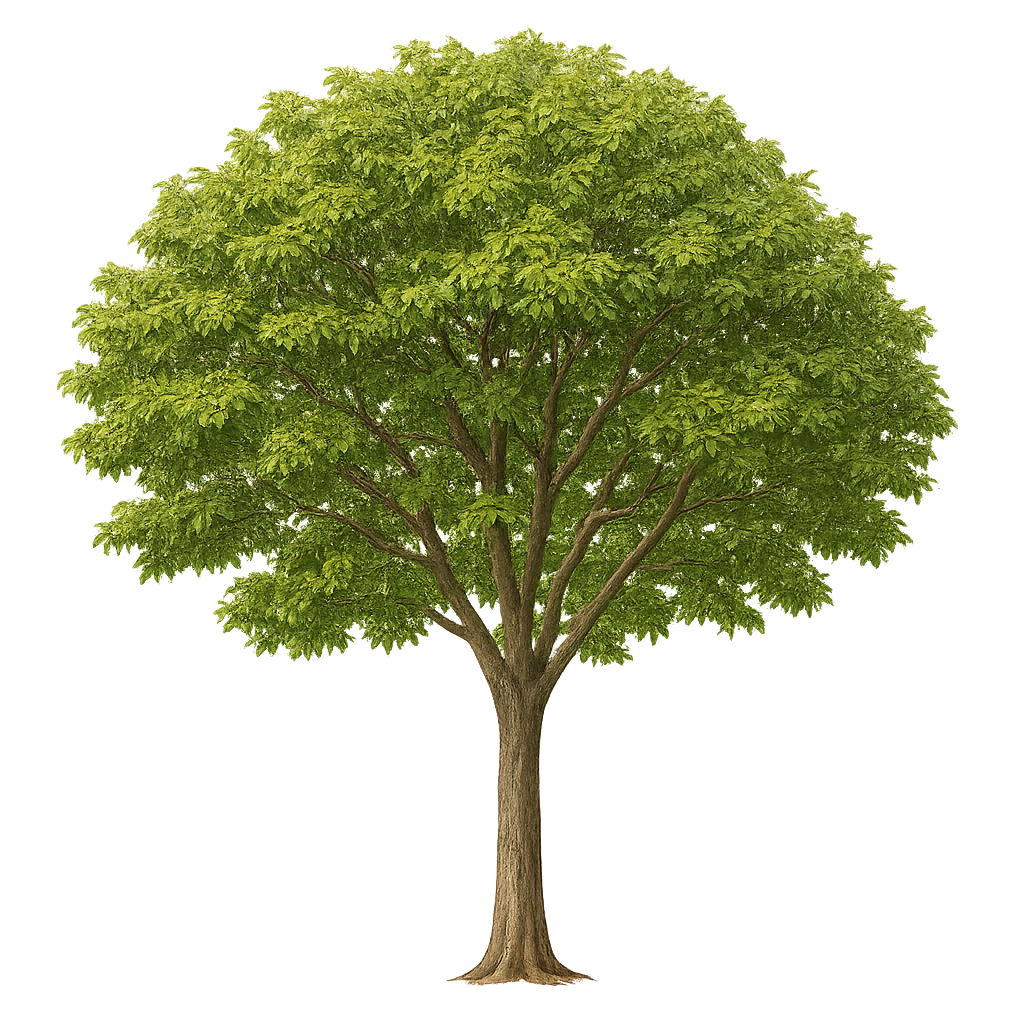
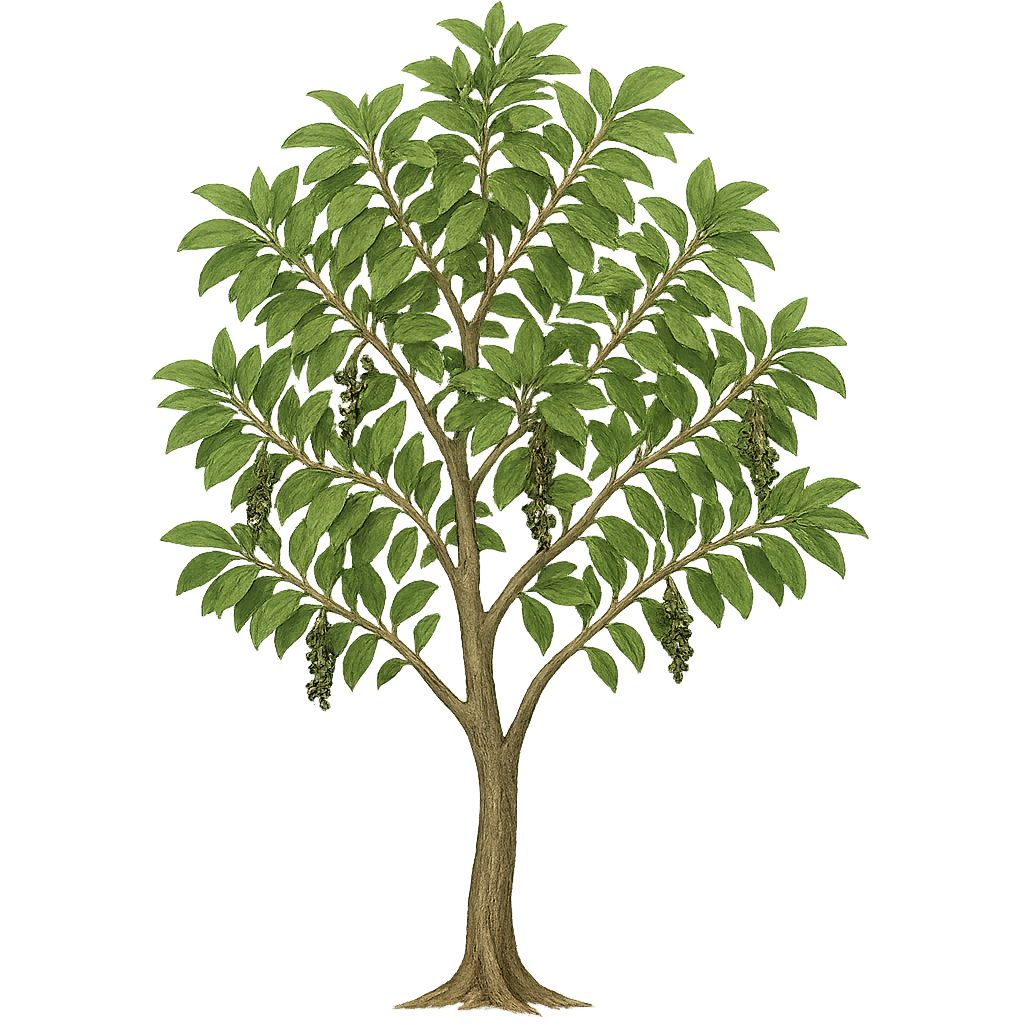
debug RAG service image generation

diff --git a/frontend/src/components/pages/canvas/AIHelper.jsx b/frontend/src/components/pages/canvas/AIHelper.jsx
@@ -11,7 +11,6 @@ const AIHelper = (props) => {
   const [plantSearch, setPlantSearch] = useState("");
   const [isHovered, setIsHovered] = useState(false);
   const { handleSearchPlantsWithImages, searchResults, loadingFlags } = useRag();
-  const [plantSearchResults, setPlantSearchResults] = useState([]);
 
   const handleImageUpload = (e, type) => {
     const files = Array.from(e.target.files || []);
@@ -41,8 +40,6 @@ const AIHelper = (props) => {
         query: plantSearch, 
         max_results: 5 
       });
-      console.log('Search results:', searchResults);
-      setPlantSearchResults(searchResults);
     } catch (error) {
       console.error('Plant search failed:', error);
       alert('Plant search failed: ' + error.message);
@@ -588,7 +585,7 @@ const AIHelper = (props) => {
               )}
 
               {/* Plant Results Grid */}
-              {!loadingFlags.isSearching && plantSearchResults.length > 0 && (
+              {!loadingFlags.isSearching && searchResults.length > 0 && (
                 <div style={{ 
                   display: 'grid', 
                   gridTemplateColumns: 'repeat(auto-fill, minmax(140px, 1fr))', 
@@ -601,7 +598,7 @@ const AIHelper = (props) => {
                   border: '1px solid #e5e7eb',
                   marginBottom: '12px'
                 }}>
-                  {plantSearchResults.map((plant, index) => {
+                  {searchResults.map((plant, index) => {
                     const isSelected = selectedPlants.some(p => p.botanical_name === plant.botanical_name);
                     return (
                       <div

diff --git a/frontend/src/hooks/useRag.js b/frontend/src/hooks/useRag.js
@@ -1,12 +1,12 @@
 import { useSelector, useDispatch } from "react-redux";
 import { useForm } from "react-hook-form";
-import { 
-    searchPlants, 
+import {
+    searchPlants,
     searchPlantsWithImages,
-    getPlantDetails, 
-    getExampleQueries, 
-    clearSearchResults, 
-    clearPlantDetails 
+    getPlantDetails,
+    getExampleQueries,
+    clearSearchResults,
+    clearPlantDetails
 } from "@/store/slices/ragSlice";
 
 export const useRag = () => {
@@ -36,9 +36,11 @@ export const useRag = () => {
 
     const handleSearchPlantsWithImages = async (searchData) => {
         try {
-            await dispatch(searchPlantsWithImages(searchData)).unwrap();
+            const result = await dispatch(searchPlantsWithImages(searchData)).unwrap();
+            return result; // Return the result so callers can use it immediately
         } catch (error) {
             alert("Failed to search plants with images: " + error);
+            throw error;
         }
     };
 
@@ -85,14 +87,14 @@ export const useRag = () => {
         exampleQueries,
         loadingFlags,
         hasResults,
-        
+
         // Form controls
         register,
         handleSubmit,
         errors,
         watch,
         setValue,
-        
+
         // Actions
         handleSearchPlants,
         handleSearchPlantsWithImages,

diff --git a/backend/services/RAG_service.py b/backend/services/RAG_service.py
@@ -287,14 +287,17 @@ def check_existing_image(botanical_name: str) -> Optional[str]:
 
 
 def build_image_prompt(botanical_name: str) -> str:
-    """Build prompt for OpenAI image generation"""
+    """Build prompt for OpenAI image generation - general purpose for any plant type"""
     return (
-        f"Generate a realistic, botanically accurate image of the species '{botanical_name}'. "
-        f"Show a full-grown mature tree with full canopy, trunk, branching structure, "
-        f"correct leaf arrangement, bark details, and accurate proportions. "
-        f"Isolate the tree on a completely transparent background suitable for a PNG file. "
-        f"No shadows, no floor, no gradients, no sky, no textures around the tree. "
-        f"Produce a clean silhouette with no artifacts."
+        f"Generate a realistic, botanically accurate image of the plant species '{botanical_name}'. "
+        f"Show the plant at full maturity with its characteristic growth form. "
+        f"Include accurate details: growth habit (tree/shrub/palm/groundcover/climber), "
+        f"stem/trunk structure, branching pattern, leaf arrangement and shape, "
+        f"bark or stem texture, flowers or fruits if distinctive, and correct proportions. "
+        f"Capture the plant's natural form and identifying features. "
+        f"Isolate the plant on a completely transparent background suitable for a PNG file. "
+        f"No shadows, no ground, no gradients, no sky, no background elements. "
+        f"Produce a clean, professional botanical illustration style silhouette with no artifacts."
     )
 
 
